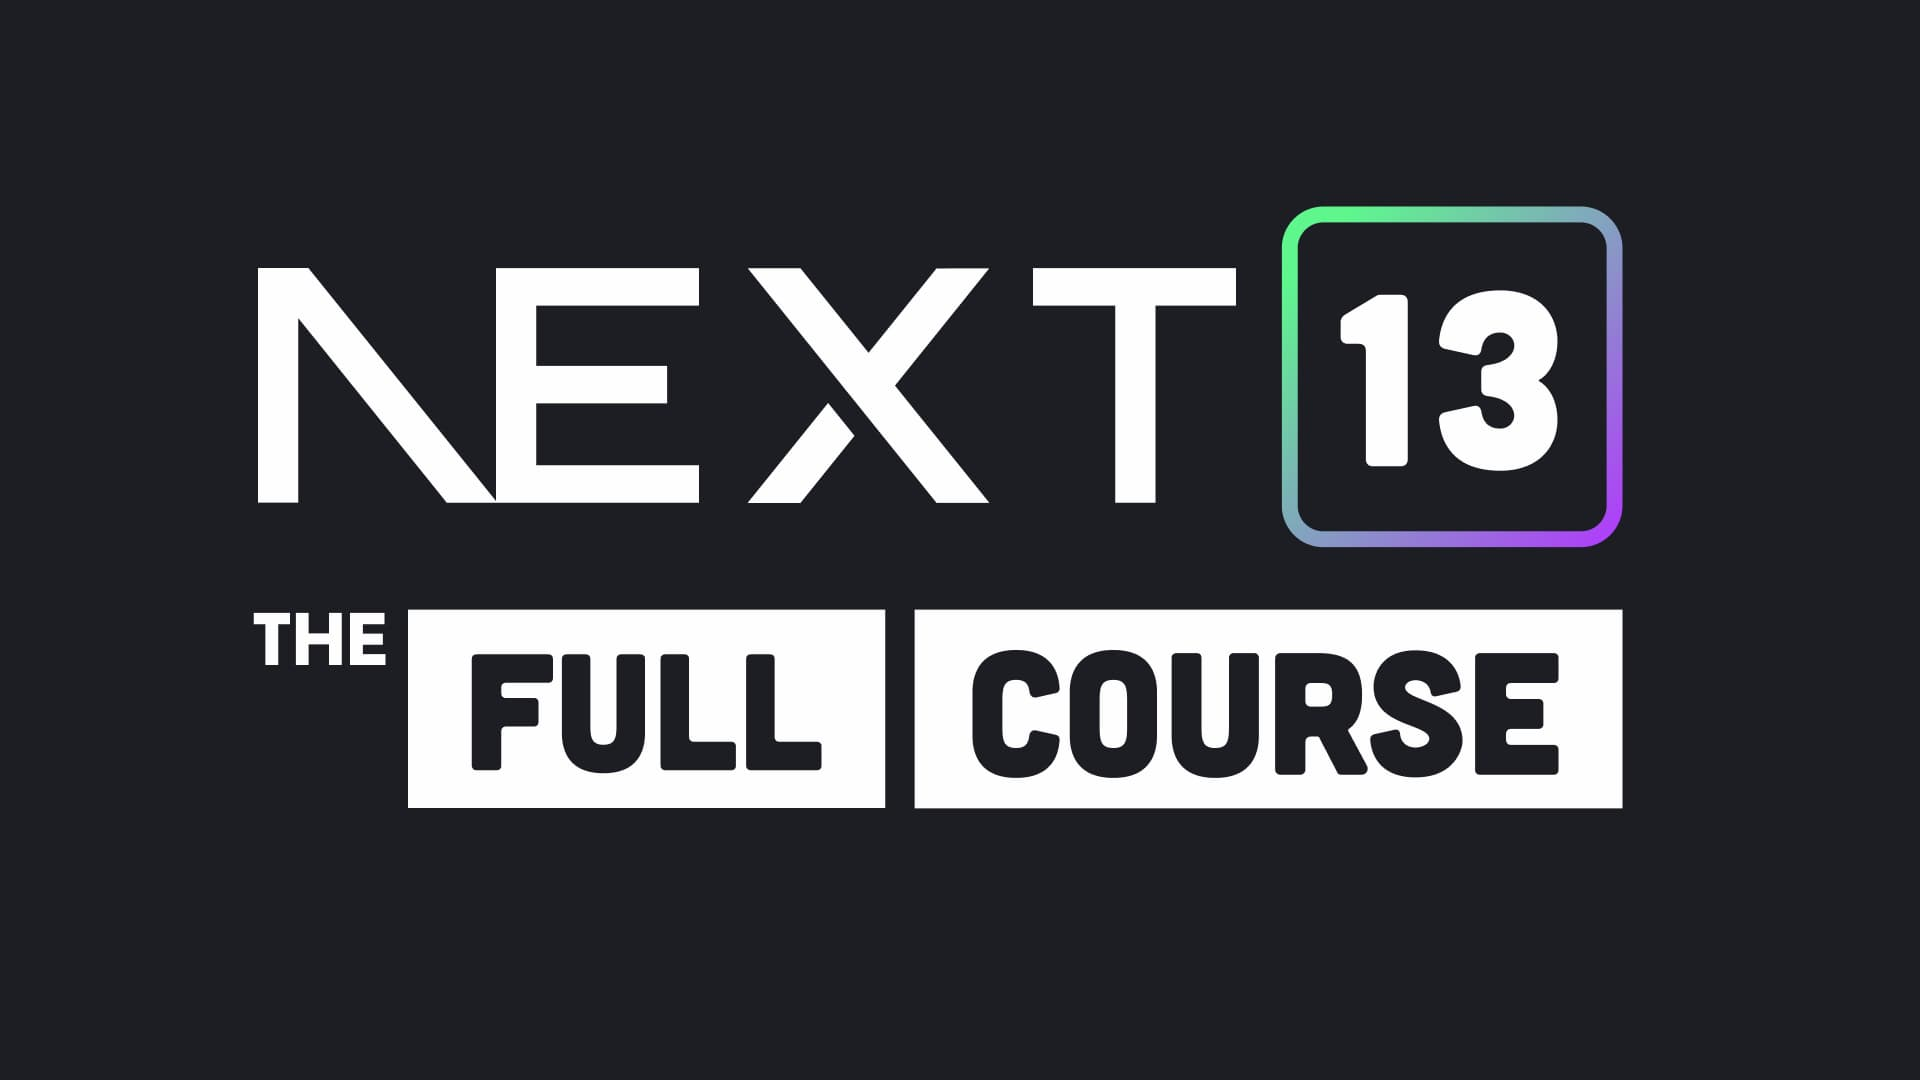
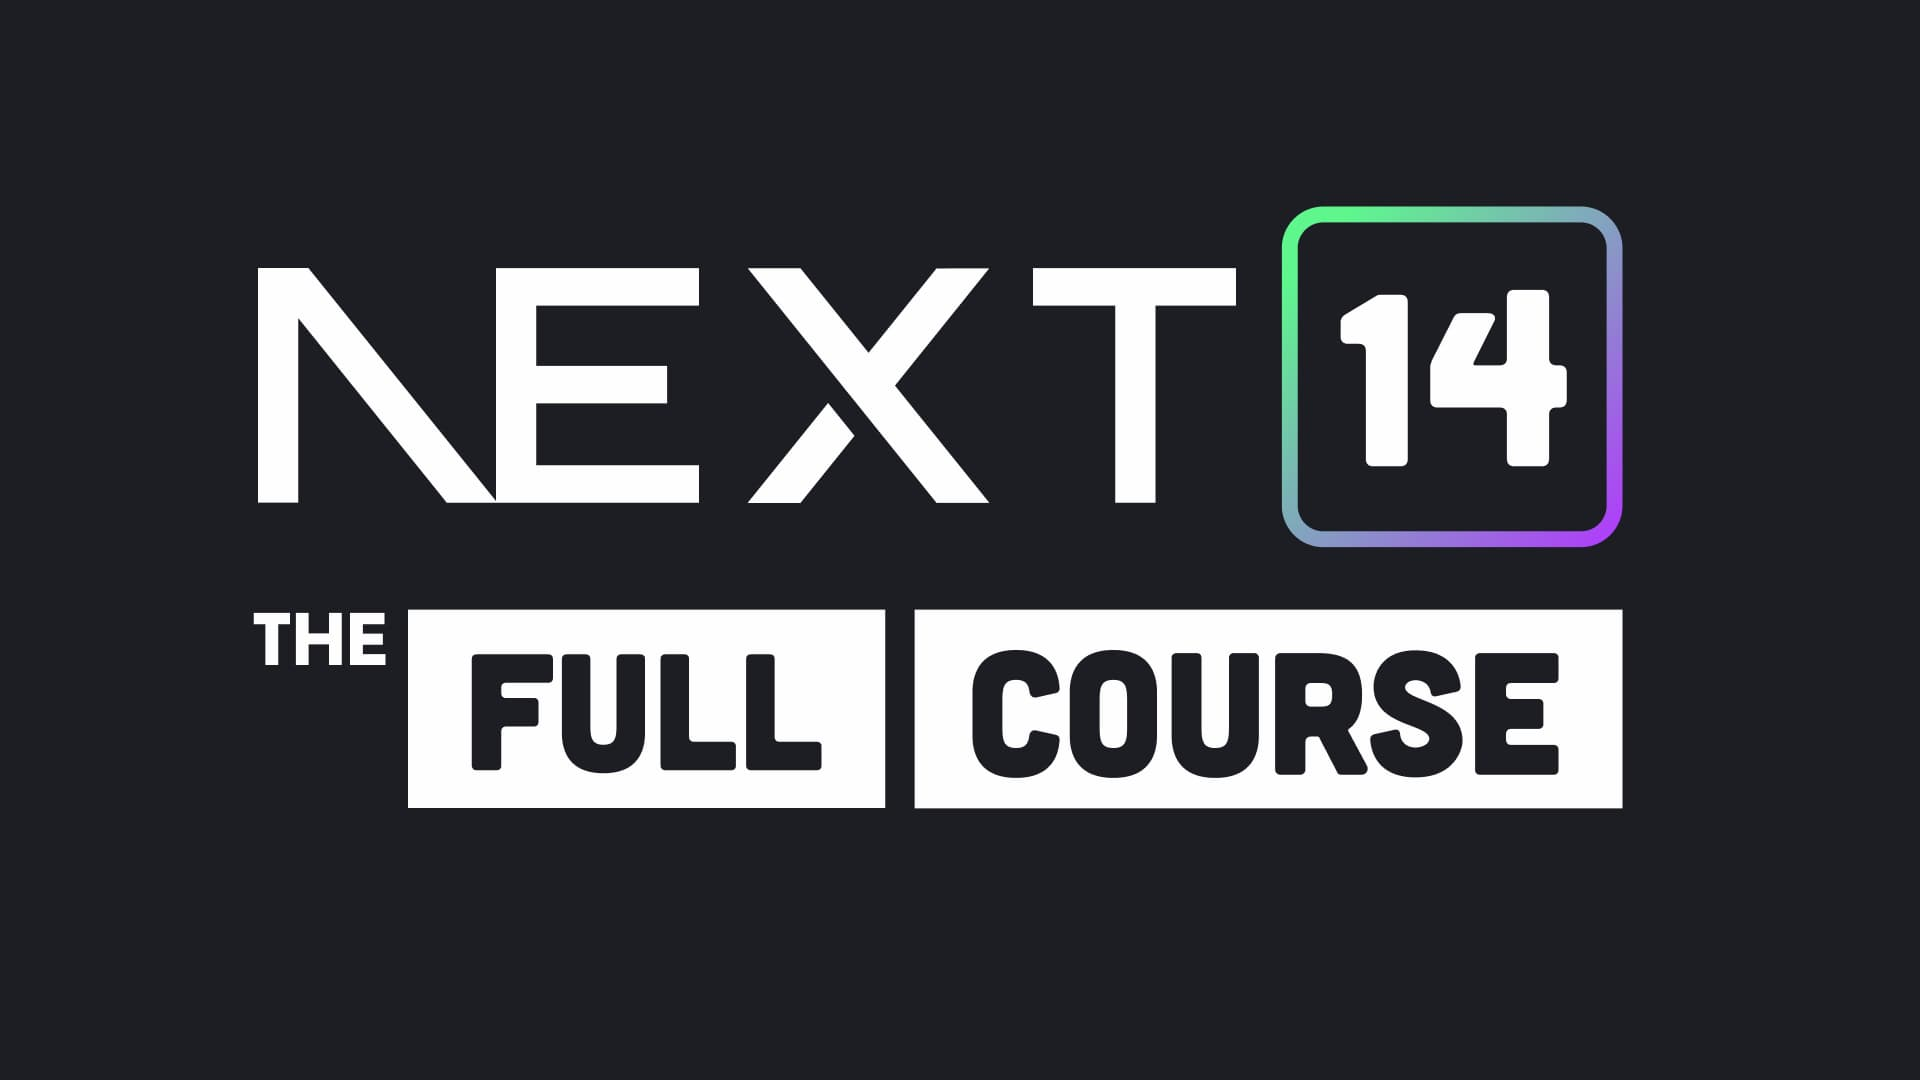
update: nextjs v14

Changed region(s): [[0.7188, 0.2444, 0.8438, 0.4583]]

diff --git a/content/courses/nextjs/_index.md b/content/courses/nextjs/_index.md
@@ -1,7 +1,7 @@
 ---
-lastmod: 2023-04-26T11:11:30-09:00
+lastmod: 2024-03-27T11:11:30-09:00
 title: Next.js Full Course
-description: Master the fundamentals of Next.js 13 and the App Router
+description: Master the fundamentals of Next.js 14 and the App Router
 weight: 0
 type: courses
 vimeo: 823089634
@@ -18,7 +18,7 @@ stack:
     - prisma
 ---
 
-**Next.js - The Full Course** provides a in-depth look into the [Next.js App Router](https://nextjs.org/blog/next-13-2) introduced in version 13.2. It puts React Server Components into practice by building a full-stack application from scratch with PostgreSQL and Prisma. 
+**Next.js - The Full Course** provides a in-depth look into the [Next.js App Router](https://nextjs.org/blog/next-13-2) first introduced in version 13.2. It puts React Server Components into practice by building a full-stack application from scratch with PostgreSQL and Prisma. 
 
 ## What will I learn?
 
@@ -46,7 +46,7 @@ This course is intermediate level 🟦 and expects some familiarity with React.j
 
 ## When was the course last updated?
 
-<span class="tag tag-sm tag-pro">Updated June 22nd, 2023</span> <span class="tag tag-sm tag-next">next v13.4</span>
+<span class="tag tag-sm tag-pro">Updated March 28th, 2024</span> <span class="tag tag-sm tag-next">next v14.1</span>
 
 ## How do I enroll?
 

diff --git a/content/courses/stripe-saas/project-metered-billing.md b/content/courses/stripe-saas/project-metered-billing.md
@@ -6,7 +6,7 @@ lastmod: 2024-03-22T10:23:30-09:00
 draft: false
 vimeo: 927648994
 emoji: ⏱
-video_length: 4:53
+video_length: 5:06
 ---
 
 ### Code
@@ -91,6 +91,7 @@ export default async function DownloadButton({ image }) {
 import { NextResponse } from 'next/server';
 import { stripe } from '@/utils/stripe';
 import { supabaseAdmin } from '@/utils/supabaseServer';
+import { randomBytes } from 'crypto';
 
 export async function POST(request: Request) {
     try {
@@ -120,7 +121,6 @@ export async function POST(request: Request) {
 
         // Create a new record in the downloads table
         const { image } = await request.json();
-
         await supabaseAdmin
             .from('downloads')
             .insert({ user_id: user.id, image });
@@ -138,6 +138,9 @@ export async function POST(request: Request) {
                 quantity: 1,
                 timestamp: 'now',
                 action: "increment"
+            },
+            {
+                idempotencyKey: randomBytes(16).toString('hex')
             }
         );
 

diff --git a/content/courses/nextjs/db-prisma.md b/content/courses/nextjs/db-prisma.md
@@ -27,7 +27,6 @@ generator client {
 datasource db {
   provider = "postgresql"
   url      = env("DATABASE_URL")
-  shadowDatabaseUrl = env("SHADOW_DATABASE_URL") // Only needed when using a cloud provider that doesn't support the creation of new databases, like Neon. Learn more: https://pris.ly/d/migrate-shadow
 }
 
 // NextAuth Schema
@@ -79,5 +78,4 @@ model VerificationToken {
 
   @@unique([identifier, token])
 }
-
 ```

diff --git a/content/courses/nextjs/db-setup.md b/content/courses/nextjs/db-setup.md
@@ -15,8 +15,5 @@ Create a free PostgresSQL database at [Neon](https://neon.tech) or directly from
 
 {{< file "cog" ".env" >}}
 ```bash
-# Example
-# postgres://USERNAME:PASSWORD@ep-foo-bar.us-east-2.aws.neon.tech/main
 DATABASE_URL=postgres://...
-SHADOW_DATABASE_URL=postgres://...
 ```
